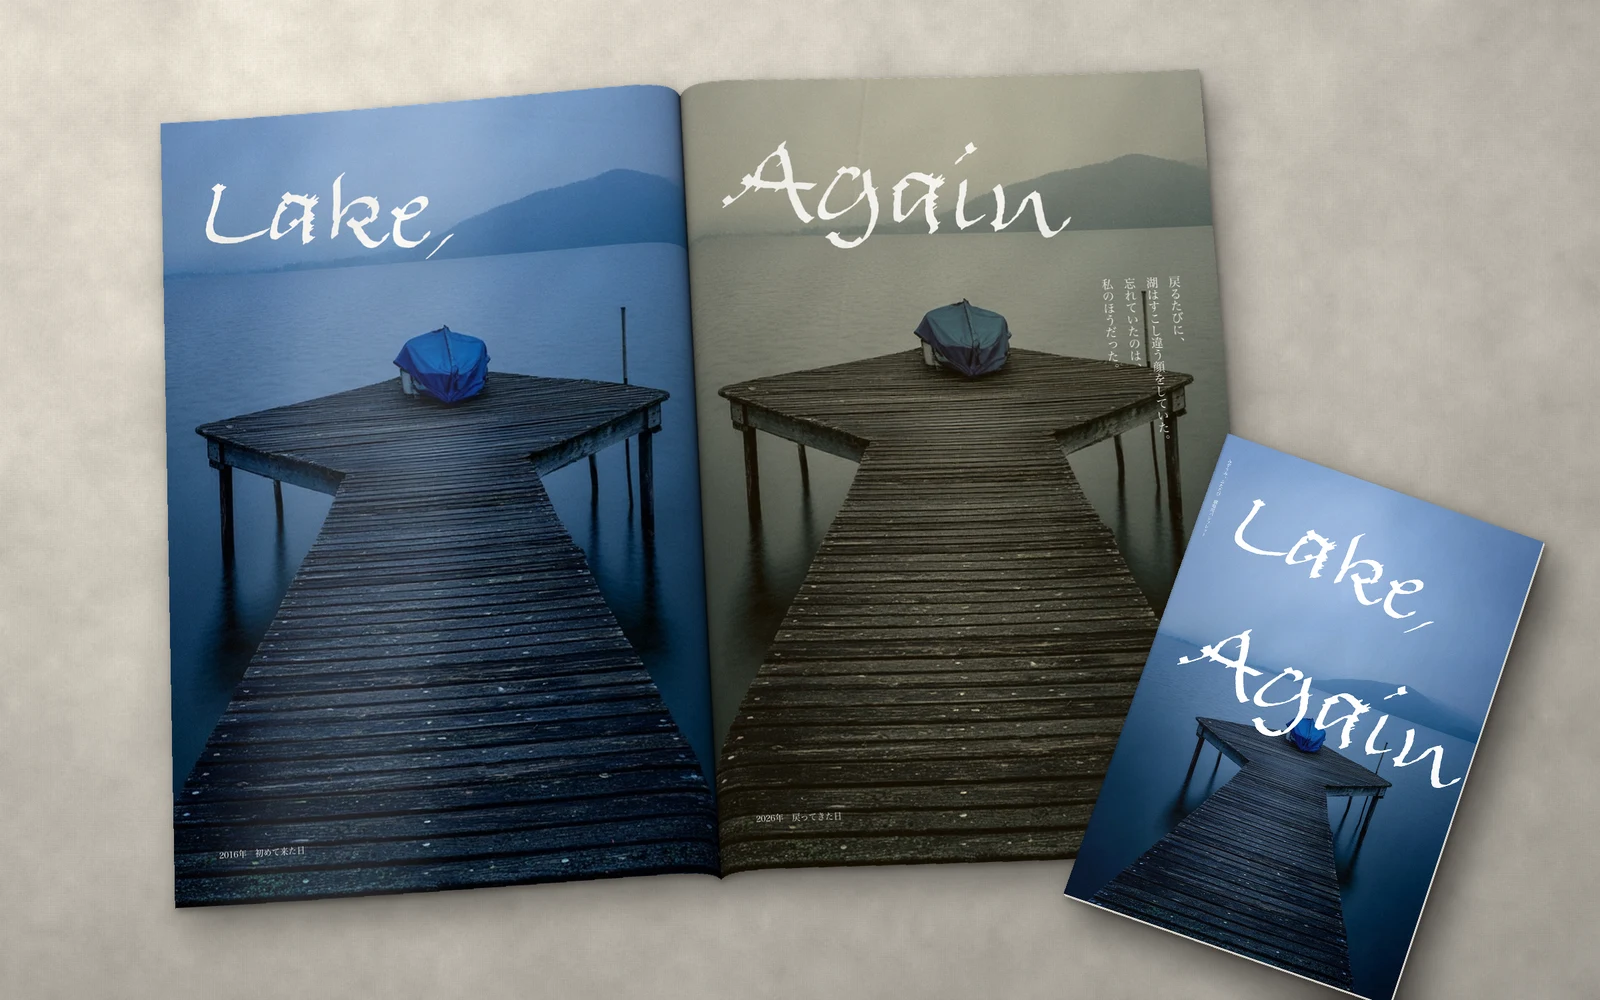
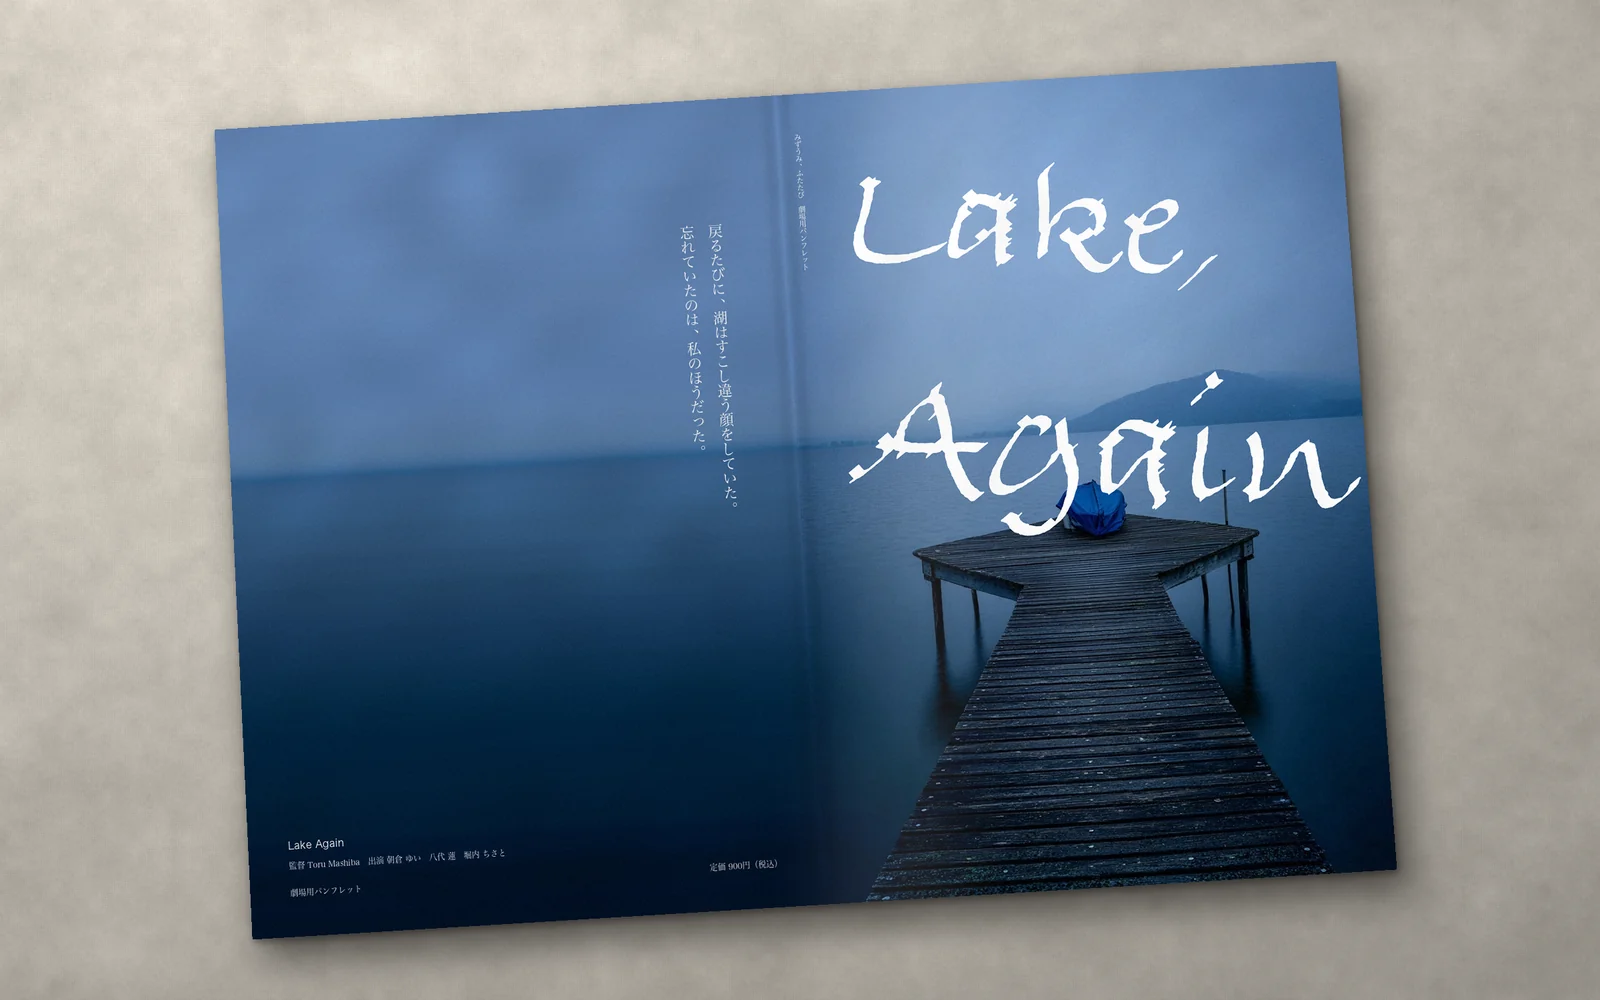
映画館ページ：Lake Again のパンフを外側を開いた形（裏表紙から表紙まで1枚の湖）に
Claude-Session: https://claude.ai/code/session_01TDfKT6QVXjYoevRCepMzQQ

diff --git a/for-cinemas.html b/for-cinemas.html
@@ -488,7 +488,7 @@
       <p class="work-desc">表紙の題字から、中の組みまで。写真と文章の多い冊子を、劇場の売店で手に取りやすい形に整えます。</p>
       <p class="bk-note">見本は、これまでの映画ポスターの写真と題字から組み直した、劇場用パンフレットの表紙と見開きです。</p>
     </div>
-    <div class="bk-posters" style="grid-template-columns:1fr"><img src="assets/img/for-cinemas/pamphlet-spread-mizukagami.webp?v=20261128c" alt="劇場用パンフレットの見本『歌劇《水鏡》』の表紙と見開き" width="1600" height="1000" loading="lazy"><img src="assets/img/for-cinemas/pamphlet-spread-lake-again.webp?v=20261128c" alt="劇場用パンフレットの見本『Lake Again』の表紙と見開き" width="1600" height="1000" loading="lazy"><img src="assets/img/for-cinemas/pamphlet-spread-nokorumono.webp?v=20261128c" alt="劇場用パンフレットの見本『のこるもの』の表紙と見開き" width="1600" height="1000" loading="lazy"></div>
+    <div class="bk-posters" style="grid-template-columns:1fr"><img src="assets/img/for-cinemas/pamphlet-spread-mizukagami.webp?v=20261128c" alt="劇場用パンフレットの見本『歌劇《水鏡》』の表紙と見開き" width="1600" height="1000" loading="lazy"><img src="assets/img/for-cinemas/pamphlet-spread-lake-again.webp?v=20261128d" alt="劇場用パンフレットの見本『Lake Again』の裏表紙から表紙まで" width="1600" height="1000" loading="lazy"><img src="assets/img/for-cinemas/pamphlet-spread-nokorumono.webp?v=20261128c" alt="劇場用パンフレットの見本『のこるもの』の表紙と見開き" width="1600" height="1000" loading="lazy"></div>
   </div>
 
   <div class="bk-item wide">
